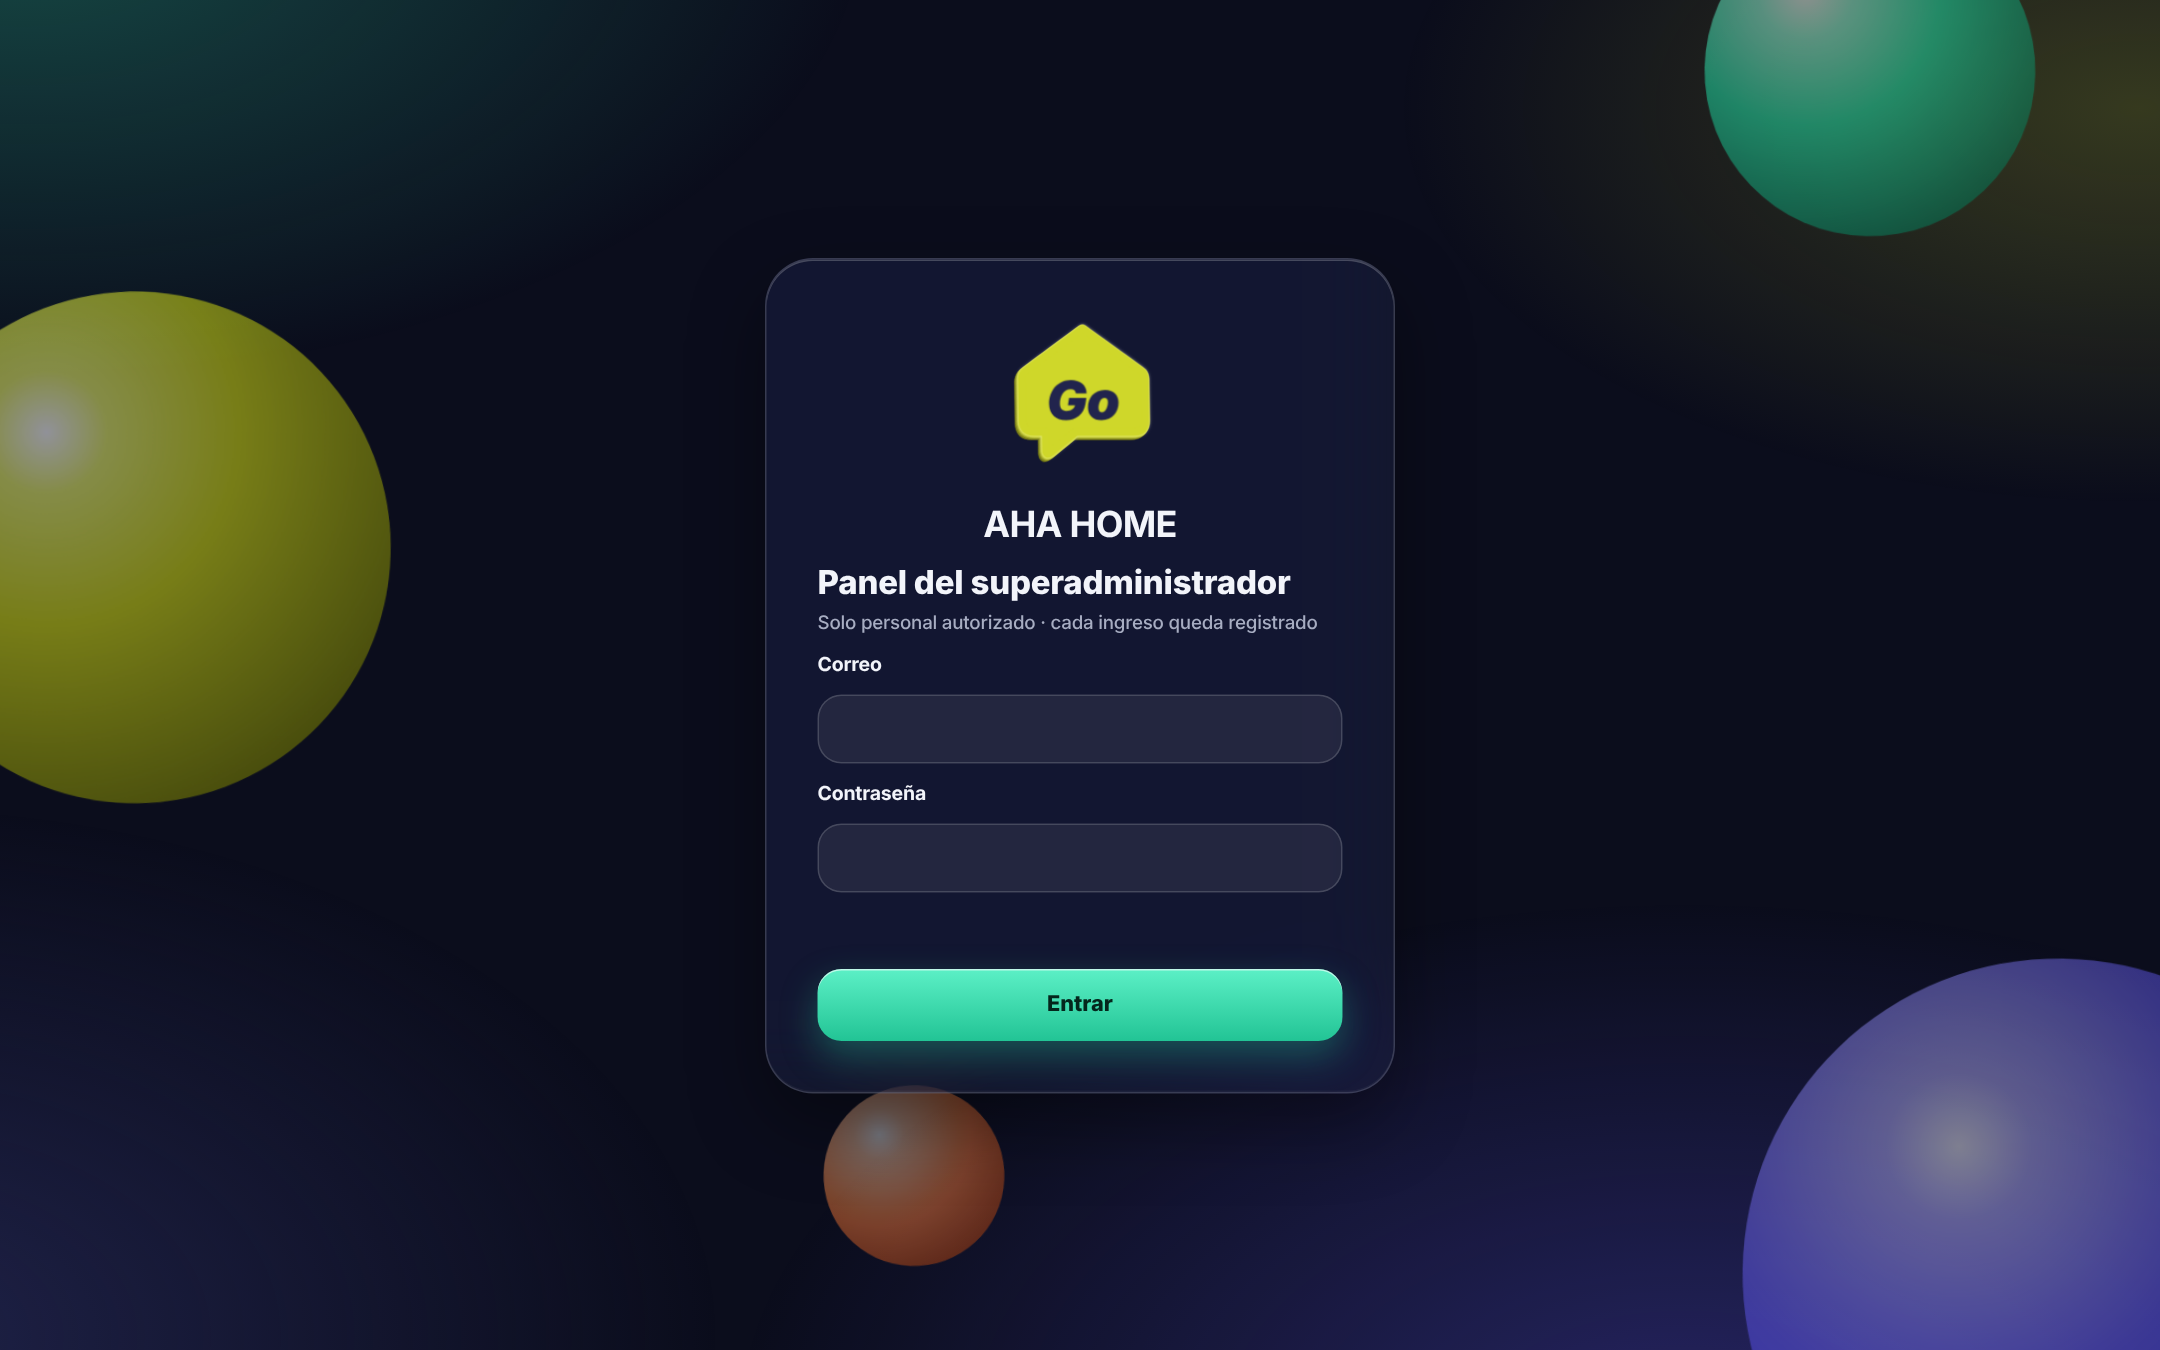
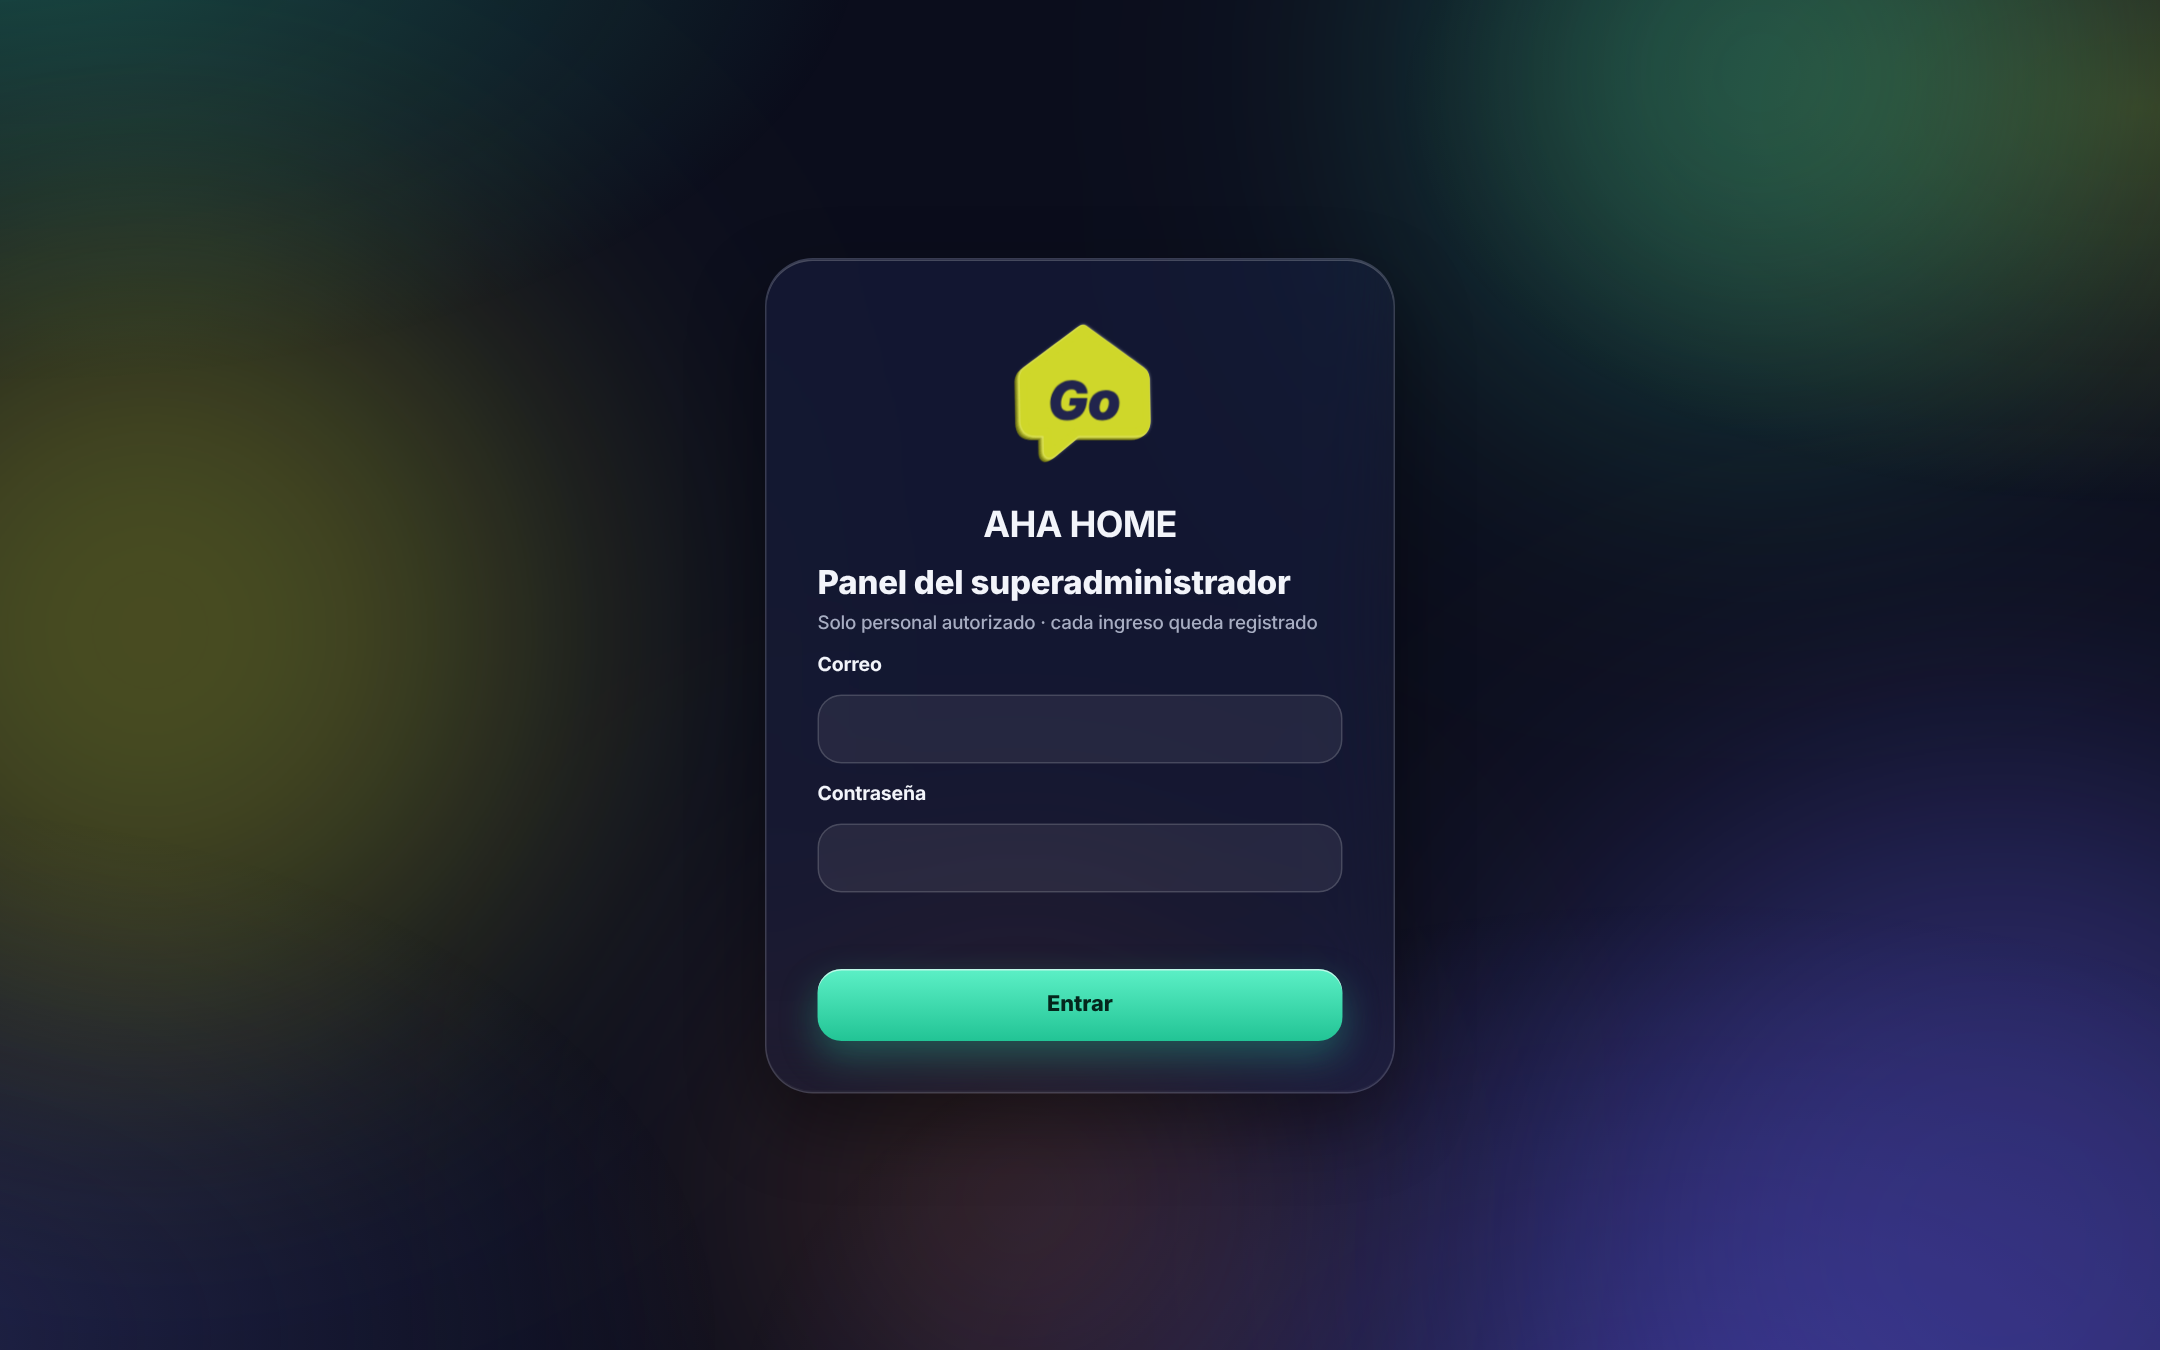
Panel: esferas de fondo difuminadas como sombras de color
Claude-Session: https://claude.ai/code/session_014SMz9zz3oS1yaniiLYwkLp

diff --git a/backend/app/panel_web/ios.css b/backend/app/panel_web/ios.css
@@ -23,11 +23,12 @@ body{min-height:100vh}
   radial-gradient(45% 40% at 70% 90%,rgba(98,90,255,.30),transparent 70%),
   radial-gradient(40% 40% at 10% 85%,rgba(33,36,77,.9),transparent 70%)}
 [data-tema="claro"] .escena:before{opacity:.55}
-.esfera{position:absolute;border-radius:50%;filter:saturate(1.15);animation:flotar 14s ease-in-out infinite alternate}
-.esfera.e1{width:340px;height:340px;left:-80px;top:22%;background:radial-gradient(circle at 32% 28%,#FFFFFF 0,#E9F27A 12%,#CFD72A 38%,#7E8410 78%,#3D4006 100%);opacity:.55}
-.esfera.e2{width:220px;height:220px;right:6%;top:-60px;background:radial-gradient(circle at 30% 26%,#FFFFFF 0,#9FFBE0 14%,#34E3B0 40%,#0E7A5C 80%,#053D2E 100%);opacity:.5;animation-duration:17s}
-.esfera.e3{width:420px;height:420px;right:-140px;bottom:-160px;background:radial-gradient(circle at 34% 30%,#FFFFFF 0,#B8B4FF 12%,#6A62FF 42%,#2A2390 80%,#120E4D 100%);opacity:.45;animation-duration:20s}
-.esfera.e4{width:120px;height:120px;left:38%;bottom:6%;background:radial-gradient(circle at 30% 28%,#FFFFFF 0,#FFC9A8 14%,#FF8A4C 44%,#A83F0C 85%);opacity:.45;animation-duration:12s}
+.esfera{position:absolute;border-radius:50%;filter:blur(110px);animation:flotar 18s ease-in-out infinite alternate}
+.esfera.e1{width:520px;height:520px;left:-160px;top:18%;background:#CFD72A;opacity:.32}
+.esfera.e2{width:420px;height:420px;right:4%;top:-160px;background:#34E3B0;opacity:.30;animation-duration:22s}
+.esfera.e3{width:620px;height:620px;right:-200px;bottom:-240px;background:#6A62FF;opacity:.34;animation-duration:26s}
+.esfera.e4{width:320px;height:320px;left:36%;bottom:-60px;background:#FF8A4C;opacity:.20;animation-duration:16s}
+[data-tema="claro"] .esfera{opacity:.22}
 @keyframes flotar{from{transform:translate3d(0,0,0) rotate(0)}to{transform:translate3d(30px,-40px,60px) rotate(25deg)}}
 #app{position:relative;z-index:1}
 
